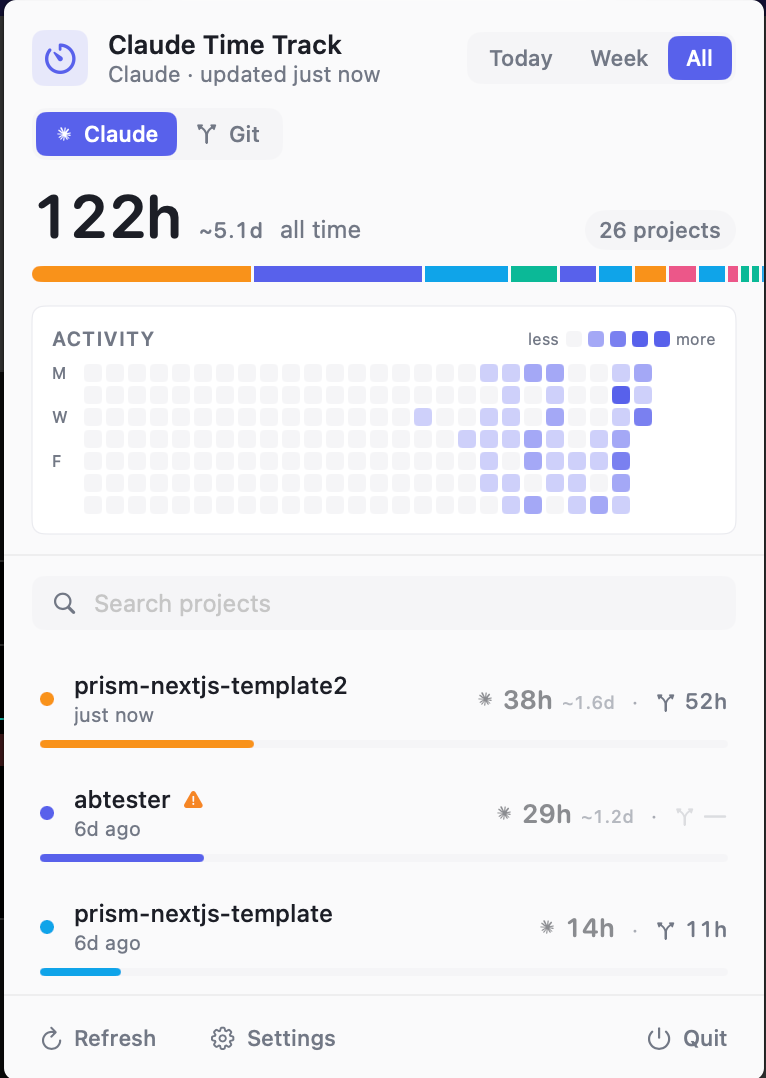
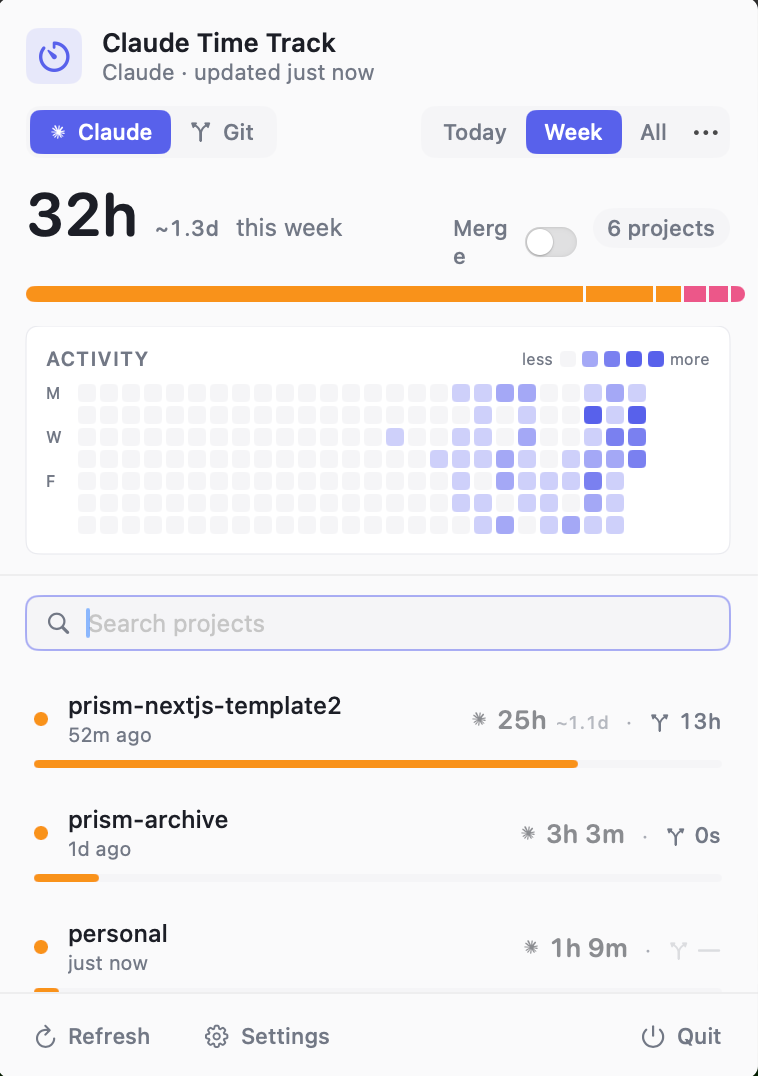
Stop "Merge" toggle from wrapping, refresh README + screenshots
- Constrain the toggle label to one line and fix its width so the switch
  can no longer push the "e" onto a second row.
- Document the merge-overlaps toggle, project search, full range list,
  and the scroll-collapse behavior in the README.
- Update both screenshots to the current UI.

diff --git a/Views/HeaderView.swift b/Views/HeaderView.swift
@@ -77,9 +77,12 @@ private struct TotalBar: View {
                         Text("Merge")
                             .font(.system(size: 11, weight: .medium))
                             .foregroundStyle(state.mergeOverlaps ? Theme.foreground : Theme.mutedForeground)
+                            .lineLimit(1)
+                            .fixedSize(horizontal: true, vertical: false)
                     }
                     .toggleStyle(.switch)
                     .controlSize(.mini)
+                    .fixedSize()
                     .help("Merge overlapping sessions across projects so concurrent work isn't double-counted in the total. The list groups concurrent windows together; non-overlapping time appears under \u{201C}Solo\u{201D}.")
                 }
                 if !projects.isEmpty {

diff --git a/README.md b/README.md
@@ -9,11 +9,14 @@ A macOS menu bar app that shows how much time you've spent in each project — t
 ## Features
 
 - **Two data sources, side by side** — every row shows both Claude session time and `git-hours` commit time. Tap either to flip the active view.
-- **Three ranges** — Today / Week / All time, with the live total in the menu bar.
+- **Time ranges** — Today / Yesterday / This week / Last week / This month / Last month / All time, with the live total in the menu bar.
 - **Activity heatmap** — GitHub-style 26-week calendar on the main popover (aggregated) and per project. Click any day to drill in: totals, sorting, and the session list scope to that day.
-- **Stacked breakdown bar** of project shares.
+- **Merge overlaps** — toggle on the total bar that de-duplicates concurrent work so two projects running at the same time don't double-count toward your total. The list reorganizes into "Overlap N" cards (each contributor's share of the window) plus a "Solo" section for non-overlapping time, and the breakdown bar switches to a timeline view where overlap regions visibly layer.
+- **Project search** — filter the list by project name.
+- **Stacked breakdown bar** of project shares (or a timeline bar in merge mode).
 - **Project detail view** — Today / Week / All-time stats for both sources, sessions / messages / last-active, activity heatmap, and the last 20 sittings (Claude) or commit summary (Git).
 - **Missing-data indicator** — if Claude Code has pruned old session JSONLs but the index still references them, the project shows a ⚠ and a banner explaining what's gone.
+- **Compact while you scroll** — the activity heatmap auto-collapses when you scroll the project list so more rows fit, and re-expands when you scroll back up or pull past the top.
 - **Appearance** — System / Light / Dark.
 - **Hands-off** — auto-refresh every minute, launch-at-login, hide projects you don't care about.
 
